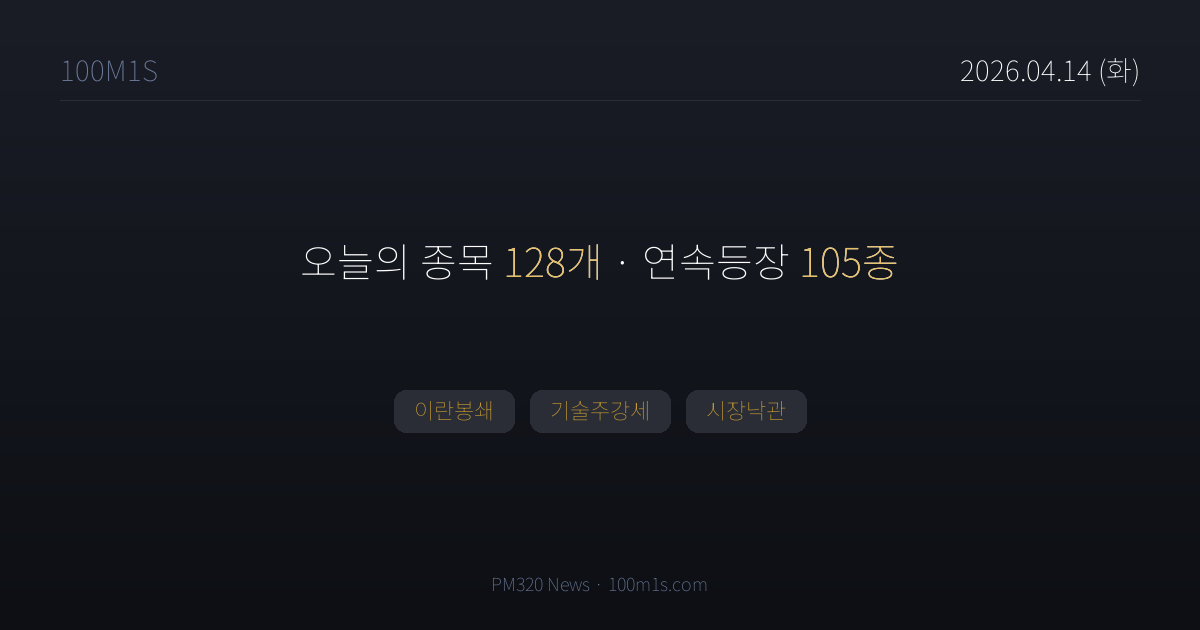
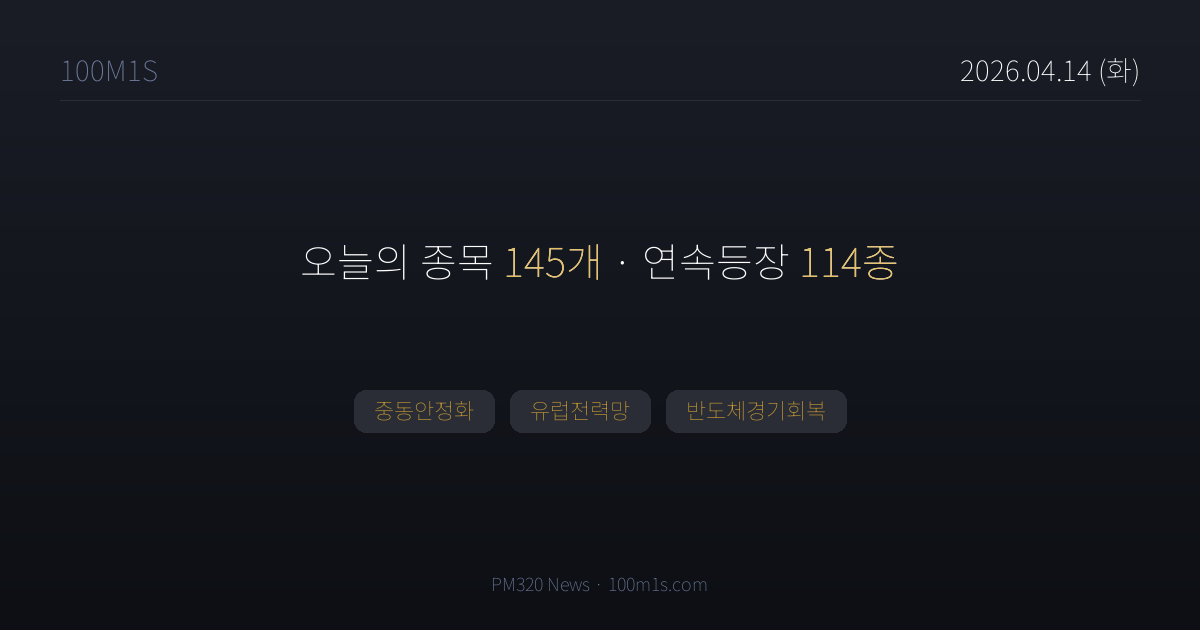
chore(news): 2026-04-14T09:01 pipeline

Changed region(s): [[0.2775, 0.6032, 0.7092, 0.6937], [0.6783, 0.3921, 0.74, 0.4524], [0.4317, 0.3921, 0.4933, 0.4524]]

diff --git a/news/2026-04-14.html b/news/2026-04-14.html
@@ -3,8 +3,8 @@
 <head>
 <meta charset="UTF-8">
 <title>4월 14일 (화) 뉴스 — 100M1S</title>
-<meta property="og:title" content="4월 14일 (화) · 종목 128개">
-<meta property="og:description" content="이란봉쇄, 기술주강세, 시장낙관">
+<meta property="og:title" content="4월 14일 (화) · 종목 145개">
+<meta property="og:description" content="중동안정화, 유럽전력망, 반도체경기회복">
 <meta property="og:image" content="https://100m1s.com/og/2026-04-14.png">
 <meta property="og:image:width" content="1200">
 <meta property="og:image:height" content="630">
